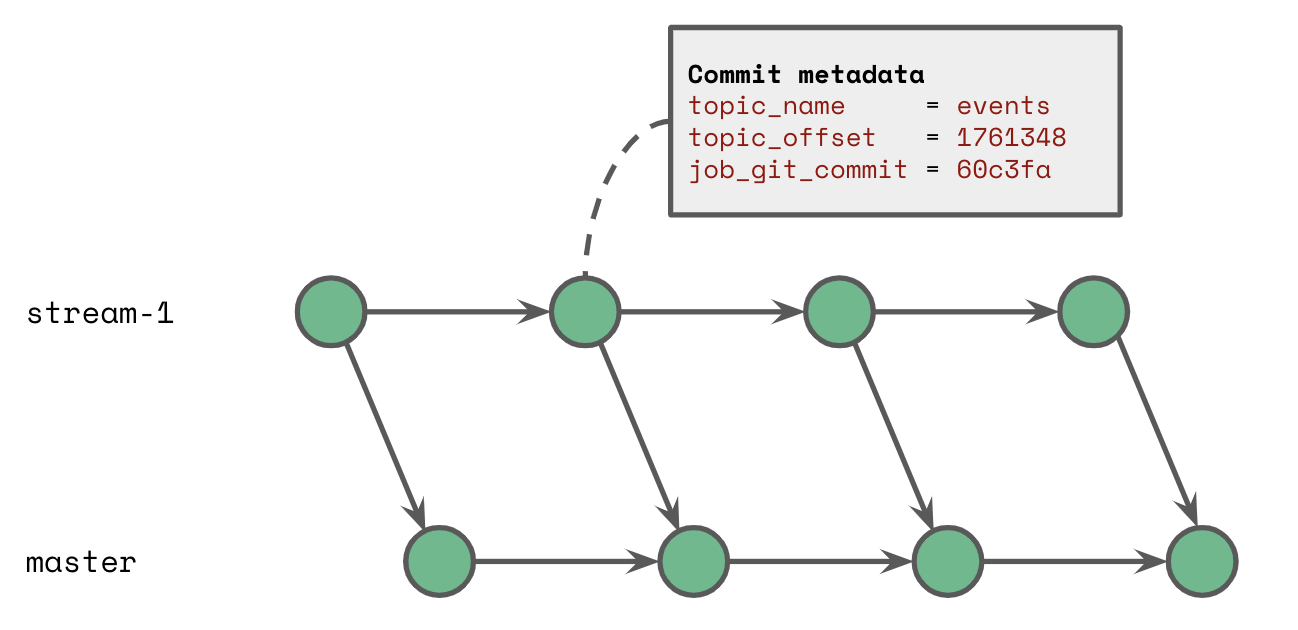
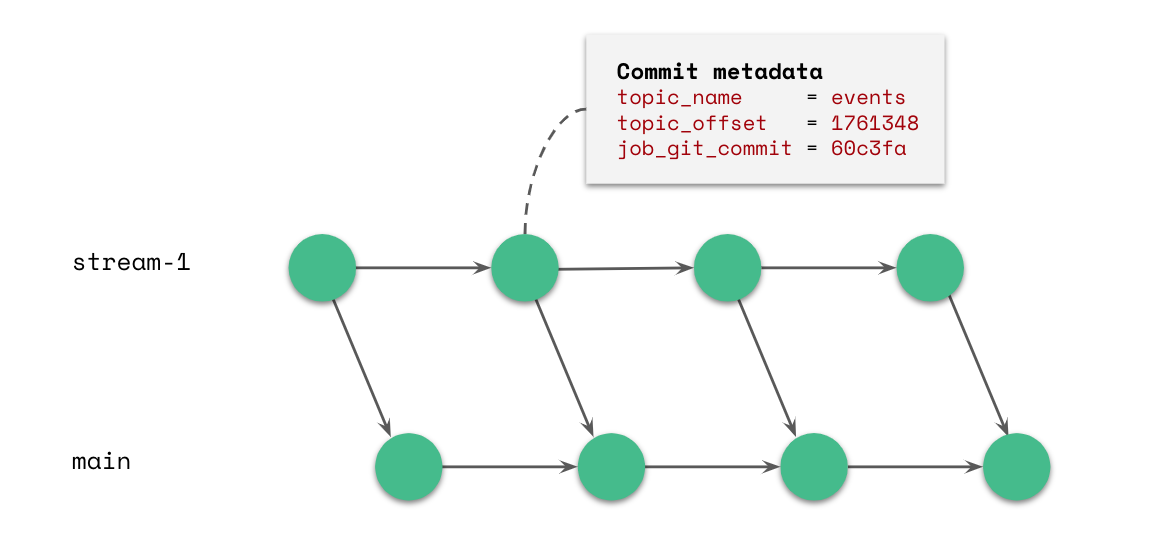
docs: update branching (#1810)

diff --git a/docs/branching/recommendations.md b/docs/branching/recommendations.md
@@ -110,7 +110,7 @@ lakeFS will assist in enforcing best practices by giving you a designated branch
 
 By using this branching model and implementing best practices as pre merge hooks, you ensure the main lake is never compromised.
 
-<img src="../assets/img/branching_5.png" alt="branching_5" width="500px"/>
+<img src="../assets/img/branching_4.png" alt="branching_4" width="500px"/>
 
 
 ## Continuous Deployment
